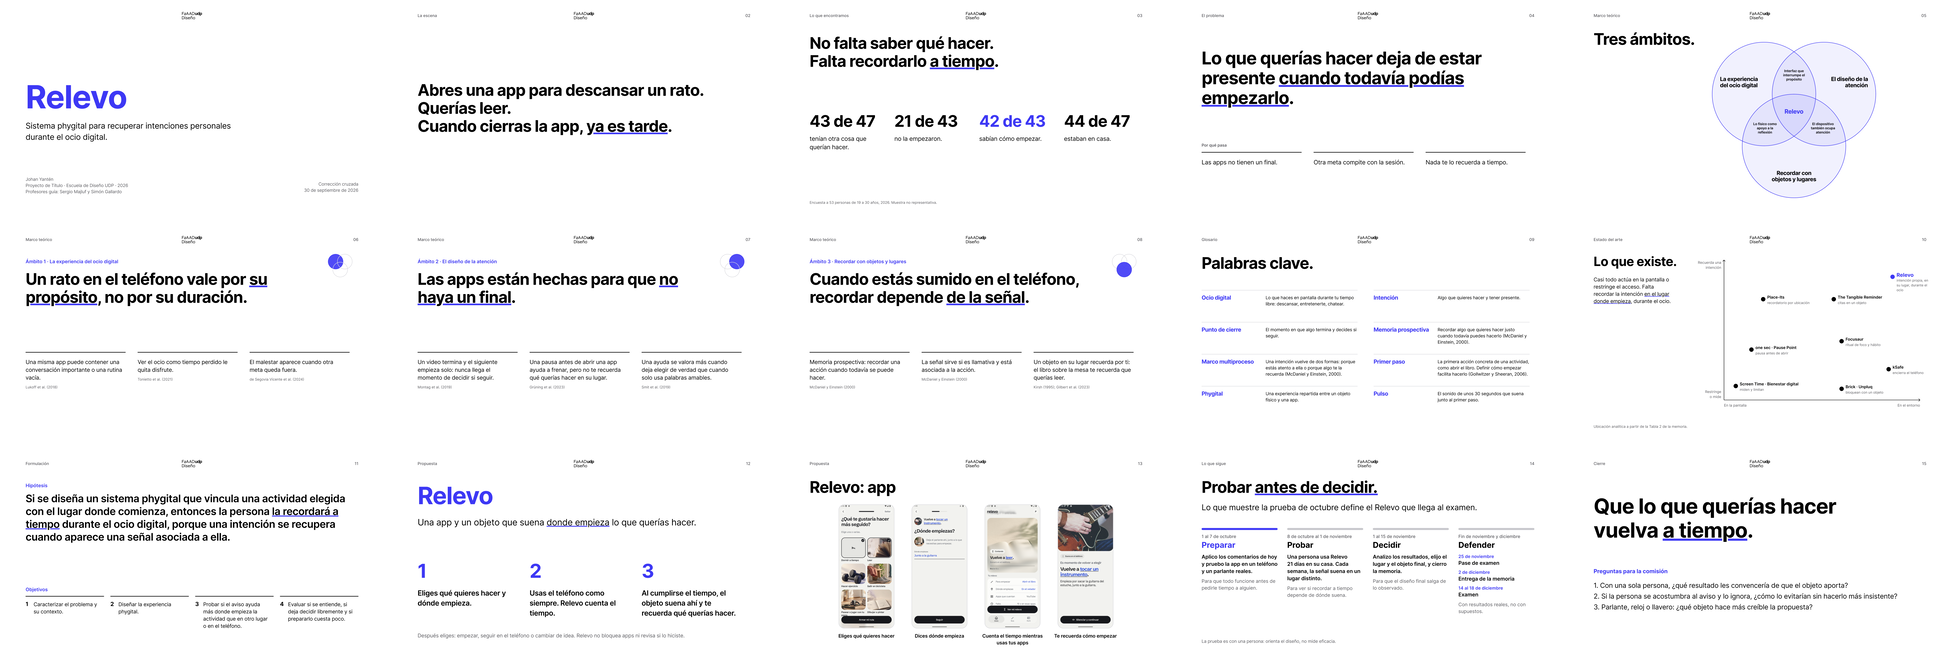
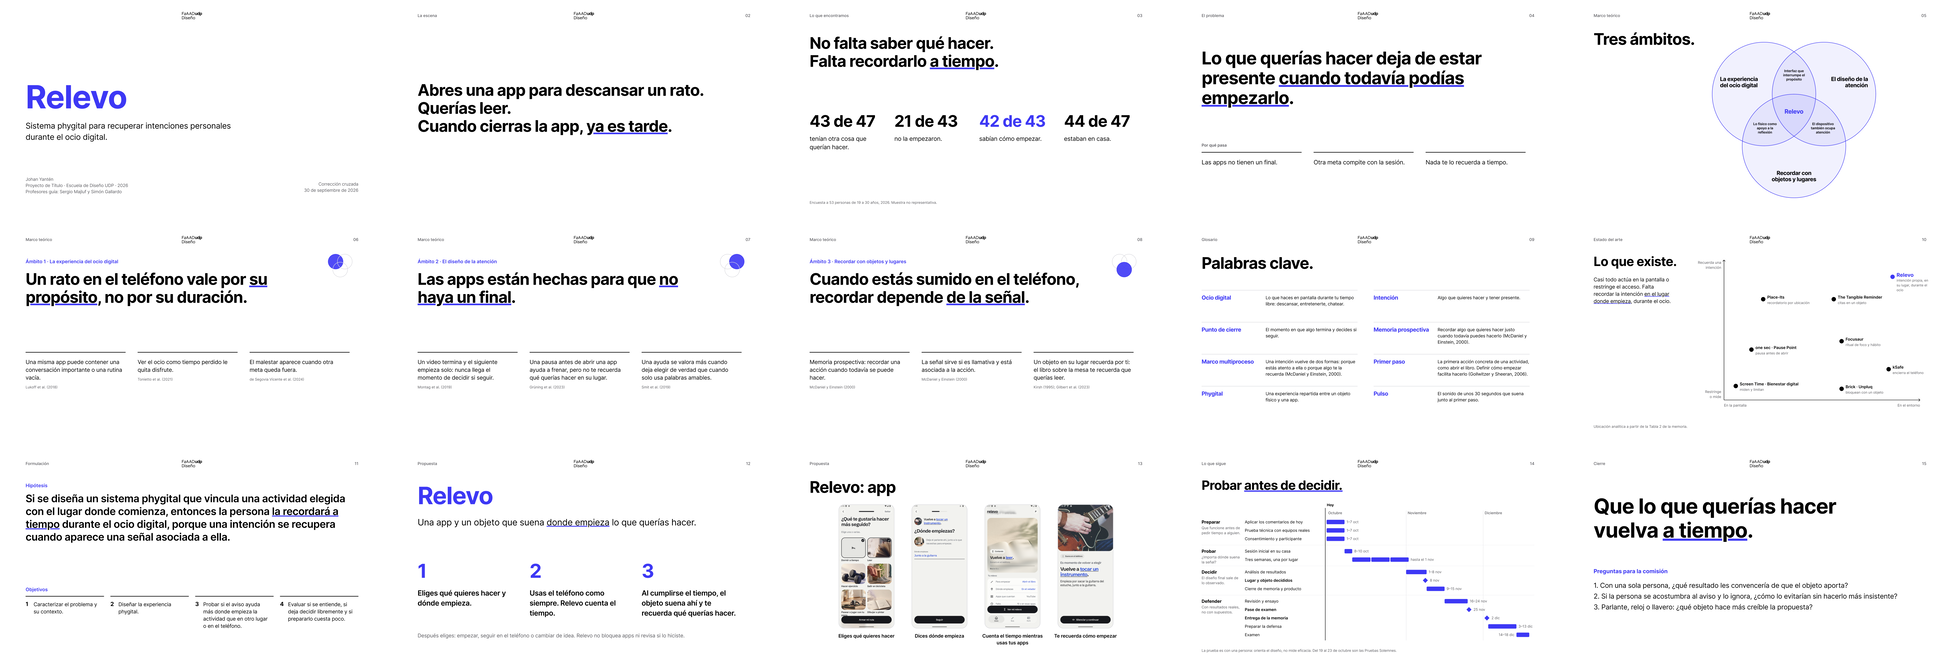
Diapositiva 14 como carta Gantt de lo que sigue
- Con el formato de la carta Gantt del respaldo (R11): 13 tareas con sus
  fechas, desde hoy hasta el examen, agrupadas en preparar, probar,
  decidir y defender, con el para qué de cada etapa.
- La R11, que el autor hizo visible como referencia, vuelve a omitirse
  al presentar.
- Imagen, hoja de contacto, documento 24, bitácora, registro de pedidos
  y trazabilidad al día.

Changed region(s): [[0.5938, 0.7229, 0.7812, 0.994]]

diff --git a/00_gobernanza/trazabilidad-uso-ia-2026-09-23.md b/00_gobernanza/trazabilidad-uso-ia-2026-09-23.md
@@ -25,7 +25,7 @@ Esta formulación se apoya en la [declaración histórica de IA de la memoria v1
 | GIF de la app 2.10 del 27 de septiembre | Claude Code respaldó los datos del autor en el emulador, preparó sin red un relevo ficticio («Leer 10 páginas»), grabó la pantalla con adb, unió dos tomas con ffmpeg, restauró los datos y documentó. | El autor pidió el GIF para la diapositiva «Cómo funciona». | Es una recreación en emulador: la señal viene de un relevo de prueba de 15 s y suena en el teléfono porque no hay parlante. |
 | Android 2.11 del 28 de septiembre | Claude Code revisó el registro y el envío de datos de la 2.10 y la base de Supabase; encontró que las respuestas nunca habían llegado a la base. Programó «Cómo funciona», adaptó el video a vertical, agregó la copia en el teléfono y dos columnas, aplicó en Supabase la migración y las vistas de análisis, probó en emulador con conexión y sin ella, borró los datos de prueba y documentó. | El autor pidió revisar la app, dejarla lista para el primer testeo, explicar su uso la primera vez, incluir el video en vertical y guardar todo en la base y en el teléfono. Registrado como D-086; los textos, el formato de la copia y las vistas son propuestas de la herramienta. | Sin teléfono real, parlante Bluetooth ni personas. |
 | Objetos que suenan y Android 2.15, 29 de septiembre | Claude Code investigó objetos baratos en Chile que Relevo pudiera hacer sonar: el llavero iTag, la placa ESP32 y el reloj con Wear Engine. Verificó en el código de una app Android de código abierto cómo se hace sonar el iTag. Implementó la salida experimental «El reloj», que envía el tono como audio de llamada, con una prueba unitaria y la migración de Supabase. | El autor propuso usar la forma ya fabricada de su reloj como objeto y pidió probar el sonido como llamada. También pidió descargar y revisar el APK oficial del iTag; se prefirió código abierto verificable antes que un APK de un sitio espejo (D-093). | No se probó con el reloj ni con un iTag reales. |
-| Presentación completa y encuesta, 29 de septiembre | Claude Code revisó las presentaciones del examen de julio de otros estudiantes, creó un archivo nuevo de Figma Slides y diseñó 18 diapositivas con diagramas (árbol de problemas, Venn, marco multiproceso, mapa de referentes, sistema, línea de la prueba y carta Gantt), gráficos de la encuesta, capturas de la app y notas del orador. Analizó la encuesta de 53 respuestas con recuentos y una codificación verificada por script, la documentó y la incorporó a la memoria. Después corrigió los textos según las notas del autor, recuperó el mapa de referentes, agregó las intersecciones del Venn, aplicó los títulos simples de los ámbitos, exportó las 15 diapositivas principales y documentó el proceso en el [documento 24](../10_recursos_visuales/24_presentacion-correccion-cruzada-2026-09-30.md). Por último, rehízo la diapositiva 14 como hoja de ruta hasta el examen, con las fechas del plan de cierre. | El autor pidió «la presentación lo más completa posible, no solo texto» y usar la encuesta en la memoria. Ante dudas sobre el origen, confirmó que las respuestas son reales pero editadas y que el formulario informaba el uso académico anónimo (D-092). Después pidió simplificar a 5 minutos, «al nivel de las keynote de Apple», con resultados en vez de métodos, un detalle de cada ámbito, un glosario y capturas del producto; Claude Code dejó 14 diapositivas principales y movió el detalle a una sección de respaldo. Luego el autor editó el archivo a mano, dejó notas dentro de los textos y pidió corregirlas, recuperar el mapa comparativo con el mercado, agregar las intersecciones del Venn con los títulos de la memoria y de su examen de julio, y títulos más simples para los ámbitos (D-094). Al final pidió cambiar «Siguiente paso» por lo que sigue en las próximas semanas y meses, «bien explicado y con sentido». | La codificación de la encuesta y las notas del orador no se revisaron con el autor. La fecha y la convocatoria de la encuesta no están registradas. La presentación no se ha ensayado. |
+| Presentación completa y encuesta, 29 de septiembre | Claude Code revisó las presentaciones del examen de julio de otros estudiantes, creó un archivo nuevo de Figma Slides y diseñó 18 diapositivas con diagramas (árbol de problemas, Venn, marco multiproceso, mapa de referentes, sistema, línea de la prueba y carta Gantt), gráficos de la encuesta, capturas de la app y notas del orador. Analizó la encuesta de 53 respuestas con recuentos y una codificación verificada por script, la documentó y la incorporó a la memoria. Después corrigió los textos según las notas del autor, recuperó el mapa de referentes, agregó las intersecciones del Venn, aplicó los títulos simples de los ámbitos, exportó las 15 diapositivas principales y documentó el proceso en el [documento 24](../10_recursos_visuales/24_presentacion-correccion-cruzada-2026-09-30.md). Por último, rehízo la diapositiva 14 como carta Gantt de lo que sigue hasta el examen, con las fechas del plan de cierre. | El autor pidió «la presentación lo más completa posible, no solo texto» y usar la encuesta en la memoria. Ante dudas sobre el origen, confirmó que las respuestas son reales pero editadas y que el formulario informaba el uso académico anónimo (D-092). Después pidió simplificar a 5 minutos, «al nivel de las keynote de Apple», con resultados en vez de métodos, un detalle de cada ámbito, un glosario y capturas del producto; Claude Code dejó 14 diapositivas principales y movió el detalle a una sección de respaldo. Luego el autor editó el archivo a mano, dejó notas dentro de los textos y pidió corregirlas, recuperar el mapa comparativo con el mercado, agregar las intersecciones del Venn con los títulos de la memoria y de su examen de julio, y títulos más simples para los ámbitos (D-094). Al final pidió cambiar «Siguiente paso» por lo que sigue en las próximas semanas y meses, «bien explicado y con sentido», y ordenarlo con el formato de la carta Gantt del respaldo. | La codificación de la encuesta y las notas del orador no se revisaron con el autor. La fecha y la convocatoria de la encuesta no están registradas. La presentación no se ha ensayado. |
 | Diapositivas e hipótesis, 29 de septiembre | Claude Code diseñó en Figma las diapositivas de la corrección cruzada en dos variantes y las rehízo con el estilo del autor. Después leyó la memoria, las decisiones y el protocolo 02, propuso tres hipótesis y actualizó la elegida en todo el proyecto. | El autor pidió su estilo de diseño y una hipótesis más simple, que dijera en qué se basa la app y no su resultado: «La hipótesis no debe ser el resultado de la app, debe ser en lo que la app se basa». Eligió primero una versión en dos frases; luego señaló que «eso no es una hipótesis», pidió mirar las anteriores y eligió una formulación «si…, entonces…». Después aportó las presentaciones del examen de julio y pidió revisar los encargos; con esas reglas eligió una versión «si se diseña…, entonces…, porque…», que luego pidió simplificar y hacer teórica: «que la hipótesis no responda a lo que hace el proyecto, sino a lo teórico». Con el feedback del pase y del examen de julio eligió una versión teórica; luego pidió revisar si el marco exige el lugar y aprobó un «porque» basado en la memoria prospectiva y el marco multiproceso de McDaniel y Einstein (2000), que Claude Code incorporó a la memoria junto con una revisión completa del texto, los datos del prototipo y las citas APA 7 en español (D-091). | La hipótesis sigue sin contrastarse. Las notas del orador de las diapositivas no se revisaron con el autor. |
 | Android 2.14 y registro de pedidos, 29 de septiembre | Claude Code reescribió las frases poco naturales, agrandó el video, rehízo la guía con contexto y el primer relevo acompañado, corrigió el defecto de la 2.10, probó en emulador y creó el registro de pedidos del autor. | El autor pidió frases más naturales, un video más grande, una guía con contexto que deje hacer el primer relevo, la app lista para el testeo real y la auditoría de sus pedidos. Registrado como D-090. | Sin teléfono real ni personas. |
 | Android 2.13 y coherencia con la memoria, 29 de septiembre | Claude Code leyó la memoria (secciones 6, 7, 9, 10 y 11) y el corpus P1–P8; señaló dos contradicciones (el nombre en la base y el aviso semanal encendido) y preguntó al autor; programó la guía, los intereses de las entrevistas, la tabla aparte del nombre, el resumen del relevo activo y el registro de la guía; rehízo el audio del video; probó en emulador y escribió la revisión de coherencia. | El autor pidió actividades concretas, guardar el nombre, una guía de cada cosa, revisar el audio, un resumen en Inicio y avisarle de toda contradicción con la memoria. Decidió guardar el nombre y preguntar por el aviso semanal. Registrado como D-088 y D-089. | Sin teléfono real ni personas; la memoria aún no se actualiza. |
@@ -156,7 +156,7 @@ No introducir transcripciones identificables de P1–P8, hojas firmadas, claves 
 
 ### 2026-09-29 — Diapositiva 14
 
-- **Qué cambió:** la fila de la presentación suma la diapositiva 14 rehecha como hoja de ruta hasta el examen.
+- **Qué cambió:** la fila de la presentación suma la diapositiva 14 rehecha como carta Gantt de lo que sigue hasta el examen.
 - **Cómo estaba antes:** la fila terminaba en el documento 24.
 - **Por qué:** mantener trazable qué hizo la IA y qué decidió el autor.
 

diff --git a/10_recursos_visuales/24_presentacion-correccion-cruzada-2026-09-30.md b/10_recursos_visuales/24_presentacion-correccion-cruzada-2026-09-30.md
@@ -24,7 +24,7 @@
 | 11 | Hipótesis y objetivos | La hipótesis literal de la memoria (D-091) y los cuatro objetivos en palabras simples. | Capítulo 10. |
 | 12 | Relevo | Qué es y tres pasos. | Capítulos 10 y 11. |
 | 13 | La app | Cuatro capturas del producto: elegir qué hacer, decir dónde empieza, el relevo que cuenta y el aviso. | Capturas de Android 2.10 y 2.13. |
-| 14 | Lo que sigue | «Probar antes de decidir.» Cuatro etapas hasta el examen, cada una con sus fechas, qué se hace y para qué: preparar, probar, decidir y defender. | [Plan de cierre](../00_gobernanza/plan-de-cierre-agosto-diciembre-2026.md) y [protocolo 02](../07_validacion/protocolo-02-prueba-21-dias.md). |
+| 14 | Lo que sigue | «Probar antes de decidir.» Carta Gantt desde hoy hasta el examen, con el formato de la del respaldo: 13 tareas con sus fechas, agrupadas en cuatro etapas (preparar, probar, decidir y defender), cada una con su para qué. | [Plan de cierre](../00_gobernanza/plan-de-cierre-agosto-diciembre-2026.md) y [protocolo 02](../07_validacion/protocolo-02-prueba-21-dias.md). |
 | 15 | Cierre | «Que lo que querías hacer vuelva a tiempo.» y tres preguntas a la comisión sobre los puntos débiles. | — |
 
 **Respaldo (se omite al presentar):** árbol de problemas, marco multiproceso, entrevistas, dos diapositivas de gráficos de la encuesta, criterios de diseño, versiones detalladas de hipótesis, funcionamiento y prueba, qué se registra en la prueba (la diapositiva 14 anterior), carta Gantt y referencias en APA 7. Sirven para responder preguntas.
@@ -44,7 +44,7 @@
 4. **Notas del autor.** El autor dejó comentarios dentro de los textos («*Claude por favor reescribe…»). Se reescribieron los puntos de los ámbitos 2 y 3, el glosario (con fuentes), los objetivos, los pasos de Relevo y las preguntas a la comisión. «Siguiente paso» sumó qué se registra en la prueba, y el mapa de referentes volvió al flujo principal.
 5. **Venn.** Se recuperaron las intersecciones. Tras contrastar con la memoria y con el examen de julio, los círculos usan los títulos simples del capítulo 6 (D-094) y las intersecciones son las del autor: «Interfaz que interrumpe el propósito», «Lo físico como apoyo a la reflexión» y «El dispositivo también ocupa atención».
 6. **Cambios a mano del autor, que se conservan:** «sumido en el teléfono» en el ámbito 3, «Relevo: app» en la diapositiva 13, la leyenda «Cuenta el tiempo mientras usas tus apps» y el logo de la Facultad.
-7. **Lo que sigue.** El autor pidió reemplazar «Siguiente paso», que explicaba la prueba, por lo que sigue en las próximas semanas y meses, bien explicado y con sentido. La diapositiva 14 muestra cuatro etapas con las fechas del plan de cierre y el para qué de cada una. La versión anterior quedó en el respaldo como R10.
+7. **Lo que sigue.** El autor pidió reemplazar «Siguiente paso», que explicaba la prueba, por lo que sigue en las próximas semanas y meses, bien explicado y con sentido. La diapositiva 14 muestra cuatro etapas con las fechas del plan de cierre y el para qué de cada una. La versión anterior quedó en el respaldo como R10. Después, el autor hizo visible la carta Gantt del respaldo (R11) y pidió la diapositiva 14 bien ordenada y desglosada con ese formato: ahora es una carta Gantt de lo que sigue, con una fila por tarea y la línea «Hoy». La R11 volvió a omitirse al presentar.
 
 **Herramientas.** La presentación se construyó con Claude Code mediante el conector de Figma: guiones de la API de complementos de Figma para crear formas, textos, diagramas, notas del orador y secciones, y para marcar el respaldo como omitido. Las capturas de la app se subieron desde el repositorio. Cada tanda se revisó con imágenes y con un control de que ningún elemento saliera de los márgenes.
 
@@ -55,6 +55,12 @@
 - Si se adopta el reloj o el llavero como objeto (D-093), la diapositiva 12 y el cierre deben decir cuál.
 
 ## Registro de cambios (disclaimer)
+
+### 2026-09-29 — Diapositiva 14 como carta Gantt
+
+- **Qué cambió:** la diapositiva 14 pasó a ser una carta Gantt de lo que sigue, con el formato de la R11: 13 tareas con fechas en cuatro etapas. Se actualizaron su imagen, la hoja de contacto, la tabla y el proceso.
+- **Cómo estaba antes:** mostraba las cuatro etapas en columnas de texto.
+- **Por qué:** el autor pidió ordenarla y desglosarla con el formato de la carta Gantt del respaldo.
 
 ### 2026-09-29 — Diapositiva 14: lo que sigue
 

diff --git a/00_gobernanza/bitacora-trabajo-con-ia-2026-09-29.md b/00_gobernanza/bitacora-trabajo-con-ia-2026-09-29.md
@@ -13,7 +13,7 @@
 | Hipótesis | Ocho versiones, trabajadas con el autor, hasta la final: «Si se diseña un sistema phygital que vincula una actividad elegida con el lugar donde comienza, entonces la persona la recordará a tiempo durante el ocio digital, porque una intención se recupera cuando aparece una señal asociada a ella». Se contrastó con los encargos del seminario y con el feedback del pase y del examen de julio. | D-091 |
 | Memoria | Marco multiproceso de McDaniel y Einstein (2000) en el capítulo 6. Capítulos 11 y 13 al día con la app 2.14 y la prueba con una persona. Citas en APA 7 en español. Revisión completa del texto. | D-091 |
 | Encuesta | [53 respuestas analizadas](../03_usuarios/encuesta-53-respuestas-2026-09.md) e incorporadas como evidencia complementaria, con sus límites. | D-092 |
-| Presentación | [Archivo nuevo en Figma](https://www.figma.com/slides/zhLK5LTPQWXPHIQeq4wuE8), simplificado para 5 minutos y corregido con las notas del autor; la diapositiva 14 muestra lo que sigue hasta el examen ([estado y cómo se hizo](../10_recursos_visuales/24_presentacion-correccion-cruzada-2026-09-30.md)). | — |
+| Presentación | [Archivo nuevo en Figma](https://www.figma.com/slides/zhLK5LTPQWXPHIQeq4wuE8), simplificado para 5 minutos y corregido con las notas del autor; la diapositiva 14 muestra en una carta Gantt lo que sigue hasta el examen ([estado y cómo se hizo](../10_recursos_visuales/24_presentacion-correccion-cruzada-2026-09-30.md)). | — |
 | Objetos que suenan | [Estudio de opciones baratas](../06_desarrollo_y_factibilidad/objetos-que-suenan-2026-09-29.md) y [Android 2.15](../06_desarrollo_y_factibilidad/app-android/version-2.15-reloj-como-llamada-2026-09-29.md) con la salida experimental «El reloj». | D-093 |
 | Marco teórico | Títulos simples para los tres ámbitos: «La experiencia del ocio digital», «El diseño de la atención» y «Recordar con objetos y lugares». | D-094 |
 
@@ -40,7 +40,7 @@
 
 ### 2026-09-29 — Rama principal y diapositiva 14
 
-- **Qué cambió:** la bitácora registra que `main` quedó igual a `android-2.7` y que la diapositiva 14 muestra lo que sigue hasta el examen.
+- **Qué cambió:** la bitácora registra que `main` quedó igual a `android-2.7` y que la diapositiva 14 muestra en una carta Gantt lo que sigue hasta el examen.
 - **Cómo estaba antes:** decía que el trabajo no se había fusionado con `main`.
 - **Por qué:** el autor pidió enviar el trabajo a `main` y rehacer la diapositiva.
 

diff --git a/00_gobernanza/registro-de-pedidos-a-la-ia.md b/00_gobernanza/registro-de-pedidos-a-la-ia.md
@@ -66,6 +66,7 @@
 | 29 sep. | Encargo | Enviar el trabajo a `main`. | `main` avanzó hasta el último commit de `android-2.7`, sin conflictos; ambas ramas quedan iguales en GitHub | — |
 | 29 sep. | Encargo | Adjuntar el GIF de la app hecho antes. | Se envió el [GIF «Cómo funciona»](../06_desarrollo_y_factibilidad/app-android/capturas/como-funciona-2.10/relevo-como-funciona.gif) de la app 2.10 | — |
 | 29 sep. | Corrección | Reescribir la diapositiva «Siguiente paso», que no le convence: mostrar lo que sigue en las próximas semanas y meses, bien explicado y con sentido. | Diapositiva 14, «Probar antes de decidir.»: cuatro etapas (preparar, probar, decidir y defender) con las fechas del plan de cierre, qué se hace y para qué. La versión anterior quedó en el respaldo como R10 | — |
+| 29 sep. | Corrección | Ordenar y desglosar mejor la diapositiva 14 con el formato de la carta Gantt del respaldo, que el autor hizo visible como referencia. | Diapositiva 14 rehecha como carta Gantt desde hoy hasta el examen: 13 tareas con sus fechas, agrupadas en preparar, probar, decidir y defender, con el para qué de cada etapa. La carta Gantt de referencia volvió a omitirse al presentar | — |
 
 ## Lo que muestra el registro
 
@@ -79,7 +80,7 @@ Los pedidos anteriores al 23 de septiembre están en el «Registro de prompts ex
 
 ### 2026-09-29 — Rama principal, GIF y diapositiva 14
 
-- **Qué cambió:** se registraron los pedidos de enviar el trabajo a `main`, adjuntar el GIF y rehacer la diapositiva «Siguiente paso».
+- **Qué cambió:** se registraron los pedidos de enviar el trabajo a `main`, adjuntar el GIF y rehacer la diapositiva «Siguiente paso», primero en columnas y después como carta Gantt.
 - **Cómo estaba antes:** el registro terminaba en el pedido de documentar el estado y la presentación.
 - **Por qué:** regla de registrar cada pedido del autor el mismo día.
 
